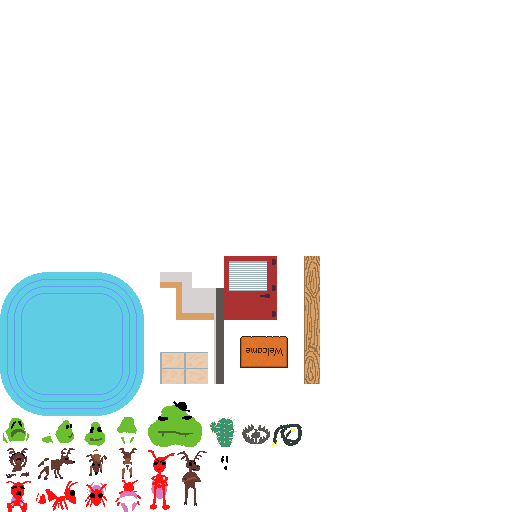
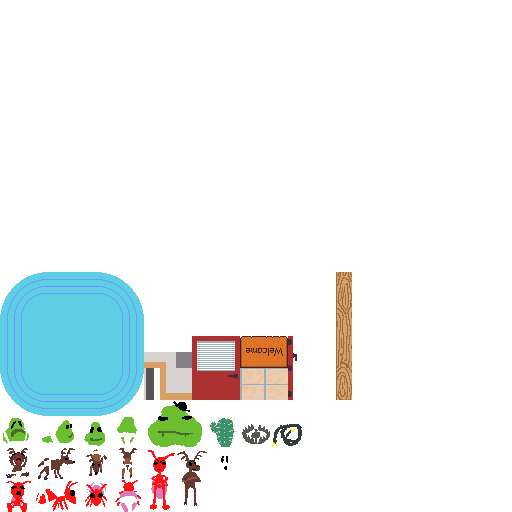
room art

Changed region(s): [[0.2812, 0.5, 0.625, 0.7812], [0.6562, 0.5312, 0.6875, 0.7812]]

diff --git a/internal/systems/room.go b/internal/systems/room.go
@@ -15,11 +15,11 @@ func BuildRoom() {
 		xPos := data.WoodWidth * float64(x)
 		h1 := 0
 		h2 := 1
-		for h1 < data.FloorHeight {
-			if data.FloorHeight-h1 < 5 {
-				h2 = data.FloorHeight - 1
-			} else if data.FloorHeight-h1 < 9 {
-				h2 = h1 + data.GlobalSeededRandom.Intn(data.FloorHeight-h1-4)
+		for h1 < data.WoodHeight {
+			if data.WoodHeight-h1 < 5 {
+				h2 = data.WoodHeight - 1
+			} else if data.WoodHeight-h1 < 9 {
+				h2 = h1 + data.GlobalSeededRandom.Intn(data.WoodHeight-h1-4)
 			} else {
 				h2 = h1 + data.GlobalSeededRandom.Intn(6) + 4
 			}
@@ -46,40 +46,94 @@ func BuildRoom() {
 		}
 	}
 	// rug
-	//for x := data.RugLeftIndex; x < data.RugRightIndex; x++ {
-	//	xPos := data.WoodWidth * float64(x)
-	//	h1 := 0
-	//	h2 := 1
-	//	for h1 < data.FloorHeight {
-	//		if data.FloorHeight-h1 < 5 {
-	//			h2 = data.FloorHeight - 1
-	//		} else if data.FloorHeight-h1 < 9 {
-	//			h2 = h1 + data.GlobalSeededRandom.Intn(data.FloorHeight-h1-4)
-	//		} else {
-	//			h2 = h1 + data.GlobalSeededRandom.Intn(6) + 4
-	//		}
-	//		halfLen := float64(h2-h1) * 0.5
-	//		yPos := data.RoomBottom + float64(h1)*data.WoodWidth + data.WoodWidth*halfLen
-	//		woodObj := object.New()
-	//		woodObj.Layer = 0
-	//		woodObj.Pos = pixel.V(xPos, yPos)
-	//
-	//		r := data.GlobalSeededRandom.Intn(8)
-	//		var sprs []*img.Sprite
-	//		for h := h1; h <= h2; h++ {
-	//			spr := img.NewSprite(fmt.Sprintf("wood_floor_%d", r), data.BatchKeyTest).
-	//				WithOffset(pixel.V(0., (float64(h-h1)-halfLen)*data.WoodWidth))
-	//			sprs = append(sprs, spr)
-	//			r++
-	//			r %= 8
-	//		}
-	//
-	//		myecs.Manager.NewEntity().
-	//			AddComponent(myecs.Object, woodObj).
-	//			AddComponent(myecs.Drawable, sprs)
-	//		h1 = h2 + 1
-	//	}
-	//}
+	for x := data.RugLeftIndex; x < data.RugRightIndex; x++ {
+		xPos := data.RugWidth * float64(x)
+		for y := data.RugBottomIndex; y < data.RugTopIndex; y++ {
+			yPos := data.RugWidth * float64(y)
+			rugObj := object.New()
+			rugObj.Layer = 0
+			rugObj.Pos = pixel.V(xPos, yPos)
+
+			sprV := "m"
+			sprH := "m"
+			if x == data.RugLeftIndex {
+				sprH = "l"
+			} else if x == data.RugRightIndex-1 {
+				sprH = "r"
+			}
+			if y == data.RugBottomIndex {
+				sprV = "b"
+			} else if y == data.RugTopIndex-1 {
+				sprV = "t"
+			}
+
+			myecs.Manager.NewEntity().
+				AddComponent(myecs.Object, rugObj).
+				AddComponent(myecs.Drawable, img.NewSprite(fmt.Sprintf("rug_%s_%s", sprV, sprH), data.BatchKeyTest))
+		}
+	}
+	// side walls
+	for i := 0; i < 32; i++ {
+		xLPos := (data.WoodLeftIndex - 1) * data.WoodWidth
+		yPos := data.RoomBottom + float64(i)*data.WoodWidth
+		wallLObj := object.New()
+		wallLObj.Layer = 0
+		wallLObj.Flip = true
+		wallLObj.Pos = pixel.V(xLPos, yPos)
+		myecs.Manager.NewEntity().
+			AddComponent(myecs.Object, wallLObj).
+			AddComponent(myecs.Drawable, img.NewSprite("side_wall", data.BatchKeyTest))
+		xRPos := (data.WoodRightIndex) * data.WoodWidth
+		wallRObj := object.New()
+		wallRObj.Layer = 0
+		wallRObj.Pos = pixel.V(xRPos, yPos)
+		myecs.Manager.NewEntity().
+			AddComponent(myecs.Object, wallRObj).
+			AddComponent(myecs.Drawable, img.NewSprite("side_wall", data.BatchKeyTest))
+	}
+	// front walls
+	for x := data.WoodLeftIndex; x < data.WoodRightIndex; x++ {
+		xPos := data.WoodWidth * float64(x)
+		for y := 0; y < 6; y++ {
+			yPos := data.RoomBottom + float64(data.WoodHeight+y)*data.WoodWidth
+			sprKey := ""
+			wallObj := object.New()
+			wallObj.Layer = 2
+			if x < -2 || x > 2 {
+				switch y {
+				case 0:
+					sprKey = "baseboard"
+				case 1, 2, 3, 4, 5:
+					sprKey = "back_wall"
+				}
+			} else if x < -1 || x > 1 {
+				switch y {
+				case 0:
+					sprKey = "baseboard_corner"
+				case 1, 2, 3:
+					sprKey = "back_wall_door"
+				case 4:
+					sprKey = "door_upper_corner"
+				case 5:
+					sprKey = "back_wall"
+				}
+			} else if y == 4 {
+				sprKey = "door_above"
+			} else if y == 5 {
+				sprKey = "back_wall"
+			} else {
+				sprKey = "sidewalk"
+				wallObj.Layer = 0
+			}
+			if x < -1 {
+				wallObj.Flip = true
+			}
+			wallObj.Pos = pixel.V(xPos, yPos)
+			myecs.Manager.NewEntity().
+				AddComponent(myecs.Object, wallObj).
+				AddComponent(myecs.Drawable, img.NewSprite(sprKey, data.BatchKeyTest))
+		}
+	}
 	// welcome mat
 	matObj := object.New()
 	matObj.Layer = 0
@@ -87,4 +141,30 @@ func BuildRoom() {
 	myecs.Manager.NewEntity().
 		AddComponent(myecs.Object, matObj).
 		AddComponent(myecs.Drawable, img.NewSprite(data.SpriteKeyMat, data.BatchKeyTest))
+	// doorway
+	doorObj := object.New()
+	doorObj.Layer = 1
+	doorObj.Pos = data.DoorPos
+	data.DoorEntity = myecs.Manager.NewEntity().
+		AddComponent(myecs.Object, doorObj).
+		AddComponent(myecs.Drawable, img.NewSprite(data.SpriteKeyDoorClosed, data.BatchKeyTest))
+}
+
+func DoorSystem() {
+	doorOpen := false
+	for _, result := range myecs.Manager.Query(myecs.HasMoveTarget) {
+		obj, okO := result.Components[myecs.Object].(*object.Object)
+		_, okC := result.Components[myecs.Character].(*data.Character)
+		if okO && okC {
+			if obj.Rect.Moved(obj.Pos).Intersects(data.DoorRect.Moved(data.DoorPos)) {
+				doorOpen = true
+				break
+			}
+		}
+	}
+	if doorOpen {
+		data.DoorEntity.AddComponent(myecs.Drawable, img.NewSprite(data.SpriteKeyDoorOpen, data.BatchKeyTest))
+	} else {
+		data.DoorEntity.AddComponent(myecs.Drawable, img.NewSprite(data.SpriteKeyDoorClosed, data.BatchKeyTest))
+	}
 }

diff --git a/internal/data/room.go b/internal/data/room.go
@@ -1,25 +1,32 @@
 package data
 
-import "github.com/gopxl/pixel"
+import (
+	"github.com/bytearena/ecs"
+	"github.com/gopxl/pixel"
+)
 
 const (
 	WoodWidth      = 16.
-	WoodLeftIndex  = -16
-	WoodRightIndex = 8
-	FloorHeight    = 25
+	WoodLeftIndex  = -18
+	WoodRightIndex = 19
+	WoodHeight     = 24
 	RugWidth       = 48.
-	RugLeftIndex   = -2
-	RugRightIndex  = 3
-	RugBottomIndex = -2
-	RugTopIndex    = 1
+	RugLeftIndex   = -3
+	RugRightIndex  = 4
+	RugBottomIndex = -3
+	RugTopIndex    = 2
 )
 
 var (
-	RoomBorder = pixel.R(-300., -220., 300., 176.)
-	ParentPos  = pixel.V(0., 256.)
-	DoorPos    = pixel.V(0., 184.)
-	InRoomPos  = pixel.V(0., 148.)
-	MatPos     = pixel.V(0., 148.)
-	MatRect    = pixel.R(-24., -16., 24., 16.)
-	RoomBottom = -220.
+	RoomBorder    = pixel.R(-300., -224., 300., 160.)
+	ParentPos     = pixel.V(0., 256.)
+	WaitAtDoorPos = pixel.V(0., 168.)
+	InRoomPos     = pixel.V(0., 132.)
+	DoorPos       = pixel.V(0., 188.)
+	DoorRect      = pixel.R(-8., -8., 8., 8.)
+	MatPos        = pixel.V(0., 132.)
+	MatRect       = pixel.R(-24., -16., 24., 16.)
+	RoomBottom    = -220.
+
+	DoorEntity *ecs.Entity
 )

diff --git a/internal/states/gamestate.go b/internal/states/gamestate.go
@@ -53,6 +53,7 @@ func (s *gameState) Update(win *pixelgl.Window) {
 	systems.KidParentBehaviorSystem()
 	systems.PlayerMoveSystem()
 	systems.NonPlayerMoveSystem()
+	systems.DoorSystem()
 	systems.PickUpSystem()
 	systems.NPCCollisions()
 	systems.RoomBorderSystem()
@@ -73,6 +74,7 @@ func (s *gameState) Draw(win *pixelgl.Window) {
 	data.MainCanvas.Canvas.Clear(pixel.RGBA{})
 	systems.DrawLayerSystem(data.MainCanvas.Canvas, 0, false)
 	systems.DrawLayerSystem(data.MainCanvas.Canvas, 1, data.Layers)
+	systems.DrawLayerSystem(data.MainCanvas.Canvas, 2, false)
 	img.Clear()
 	data.MainCanvas.Draw(win)
 

diff --git a/internal/data/global.go b/internal/data/global.go
@@ -11,9 +11,11 @@ const ( // states
 )
 
 const ( // sprites and batches
-	BatchKeyTest   = "test_batch"
-	SpriteKeyGhost = "ghost_test"
-	SpriteKeyMat   = "mat"
+	BatchKeyTest        = "test_batch"
+	SpriteKeyGhost      = "ghost_test"
+	SpriteKeyMat        = "mat"
+	SpriteKeyDoorClosed = "door_closed"
+	SpriteKeyDoorOpen   = "door_open"
 )
 
 var (

diff --git a/internal/systems/dropOffPickUp.go b/internal/systems/dropOffPickUp.go
@@ -84,7 +84,7 @@ func ParentPickUpSystem() {
 	if pickUpReady {
 		nextParent := data.Parents[data.PickUpList[data.ParentIndex]]
 		nextParent.KidParent.ParentState = data.TimeToPickUp
-		nextParent.Target = data.DoorPos
+		nextParent.Target = data.WaitAtDoorPos
 		nextParent.Movement = data.Straight
 		nextParent.NoStop = true
 		data.ParentIndex++

diff --git a/internal/systems/create-characters.go b/internal/systems/create-characters.go
@@ -126,7 +126,7 @@ func CreateParentAndKids(entityName string) {
 		count = data.GlobalSeededRandom.Intn(r) + entity.Min
 	}
 	parent := CreateParent(entity.Parent, count, data.ParentPos)
-	parent.Target = data.DoorPos
+	parent.Target = data.WaitAtDoorPos
 	parent.Movement = data.Straight
 	parent.NoStop = true
 	for i := 0; i < count; i++ {
